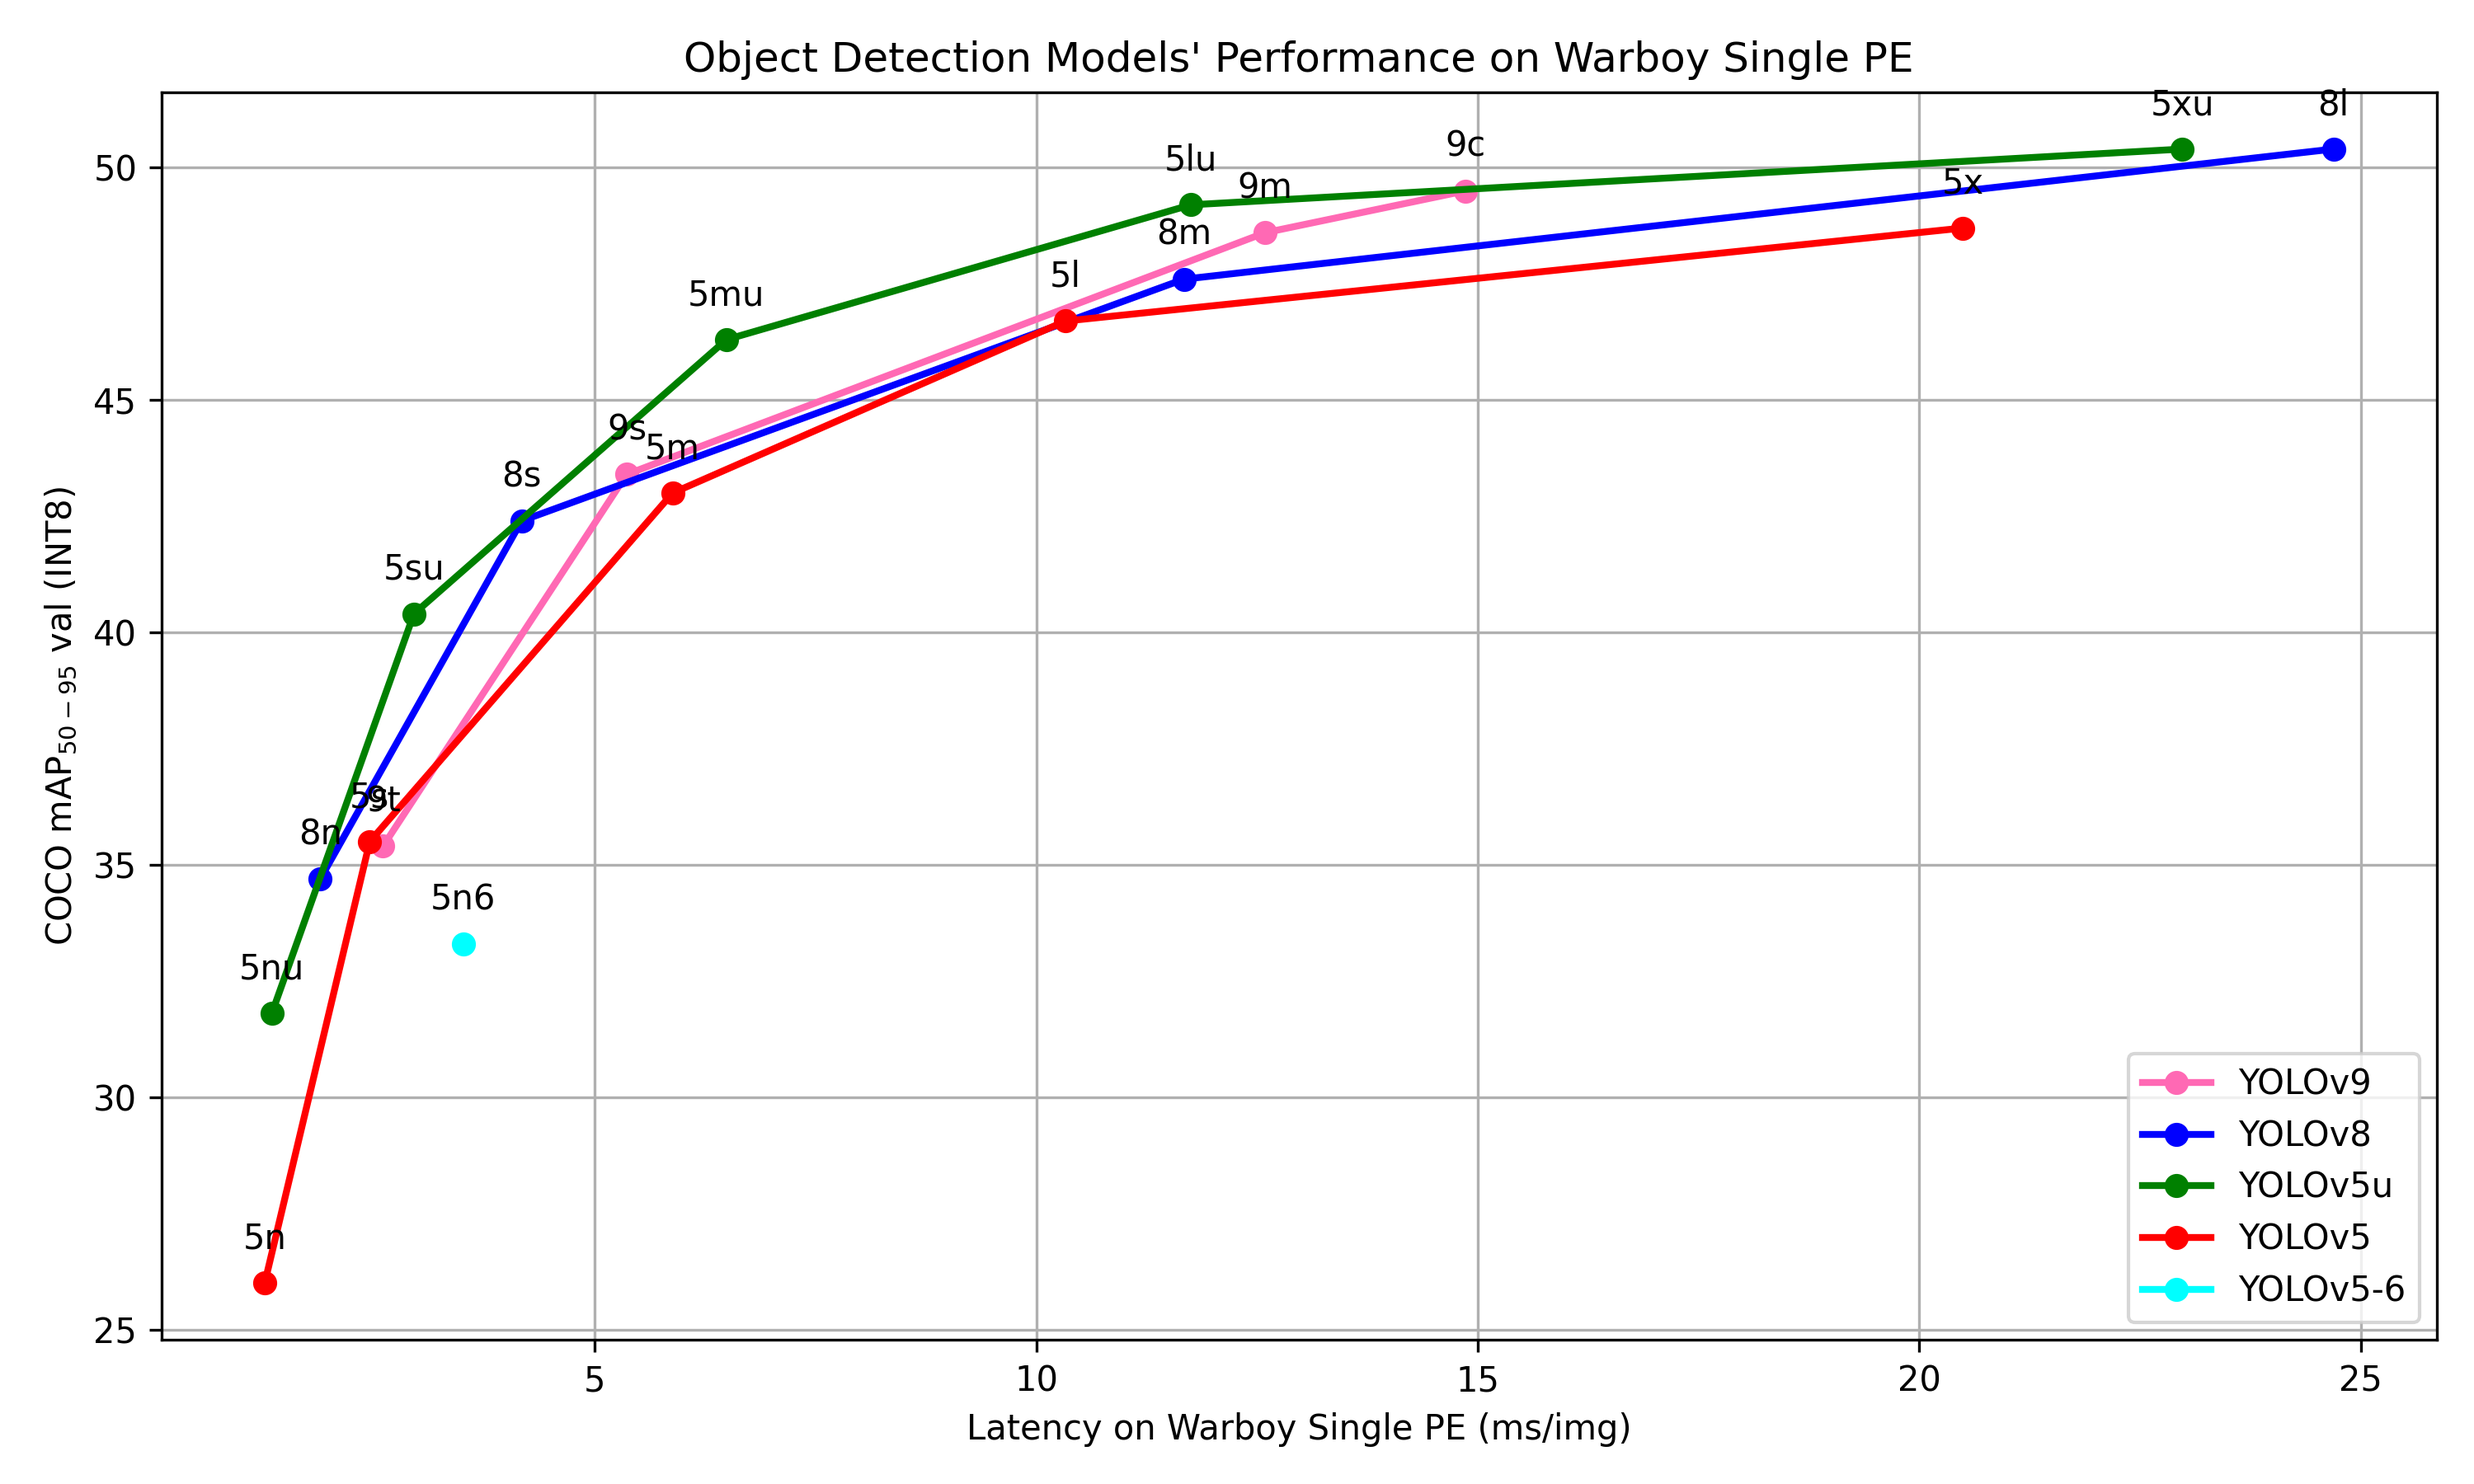
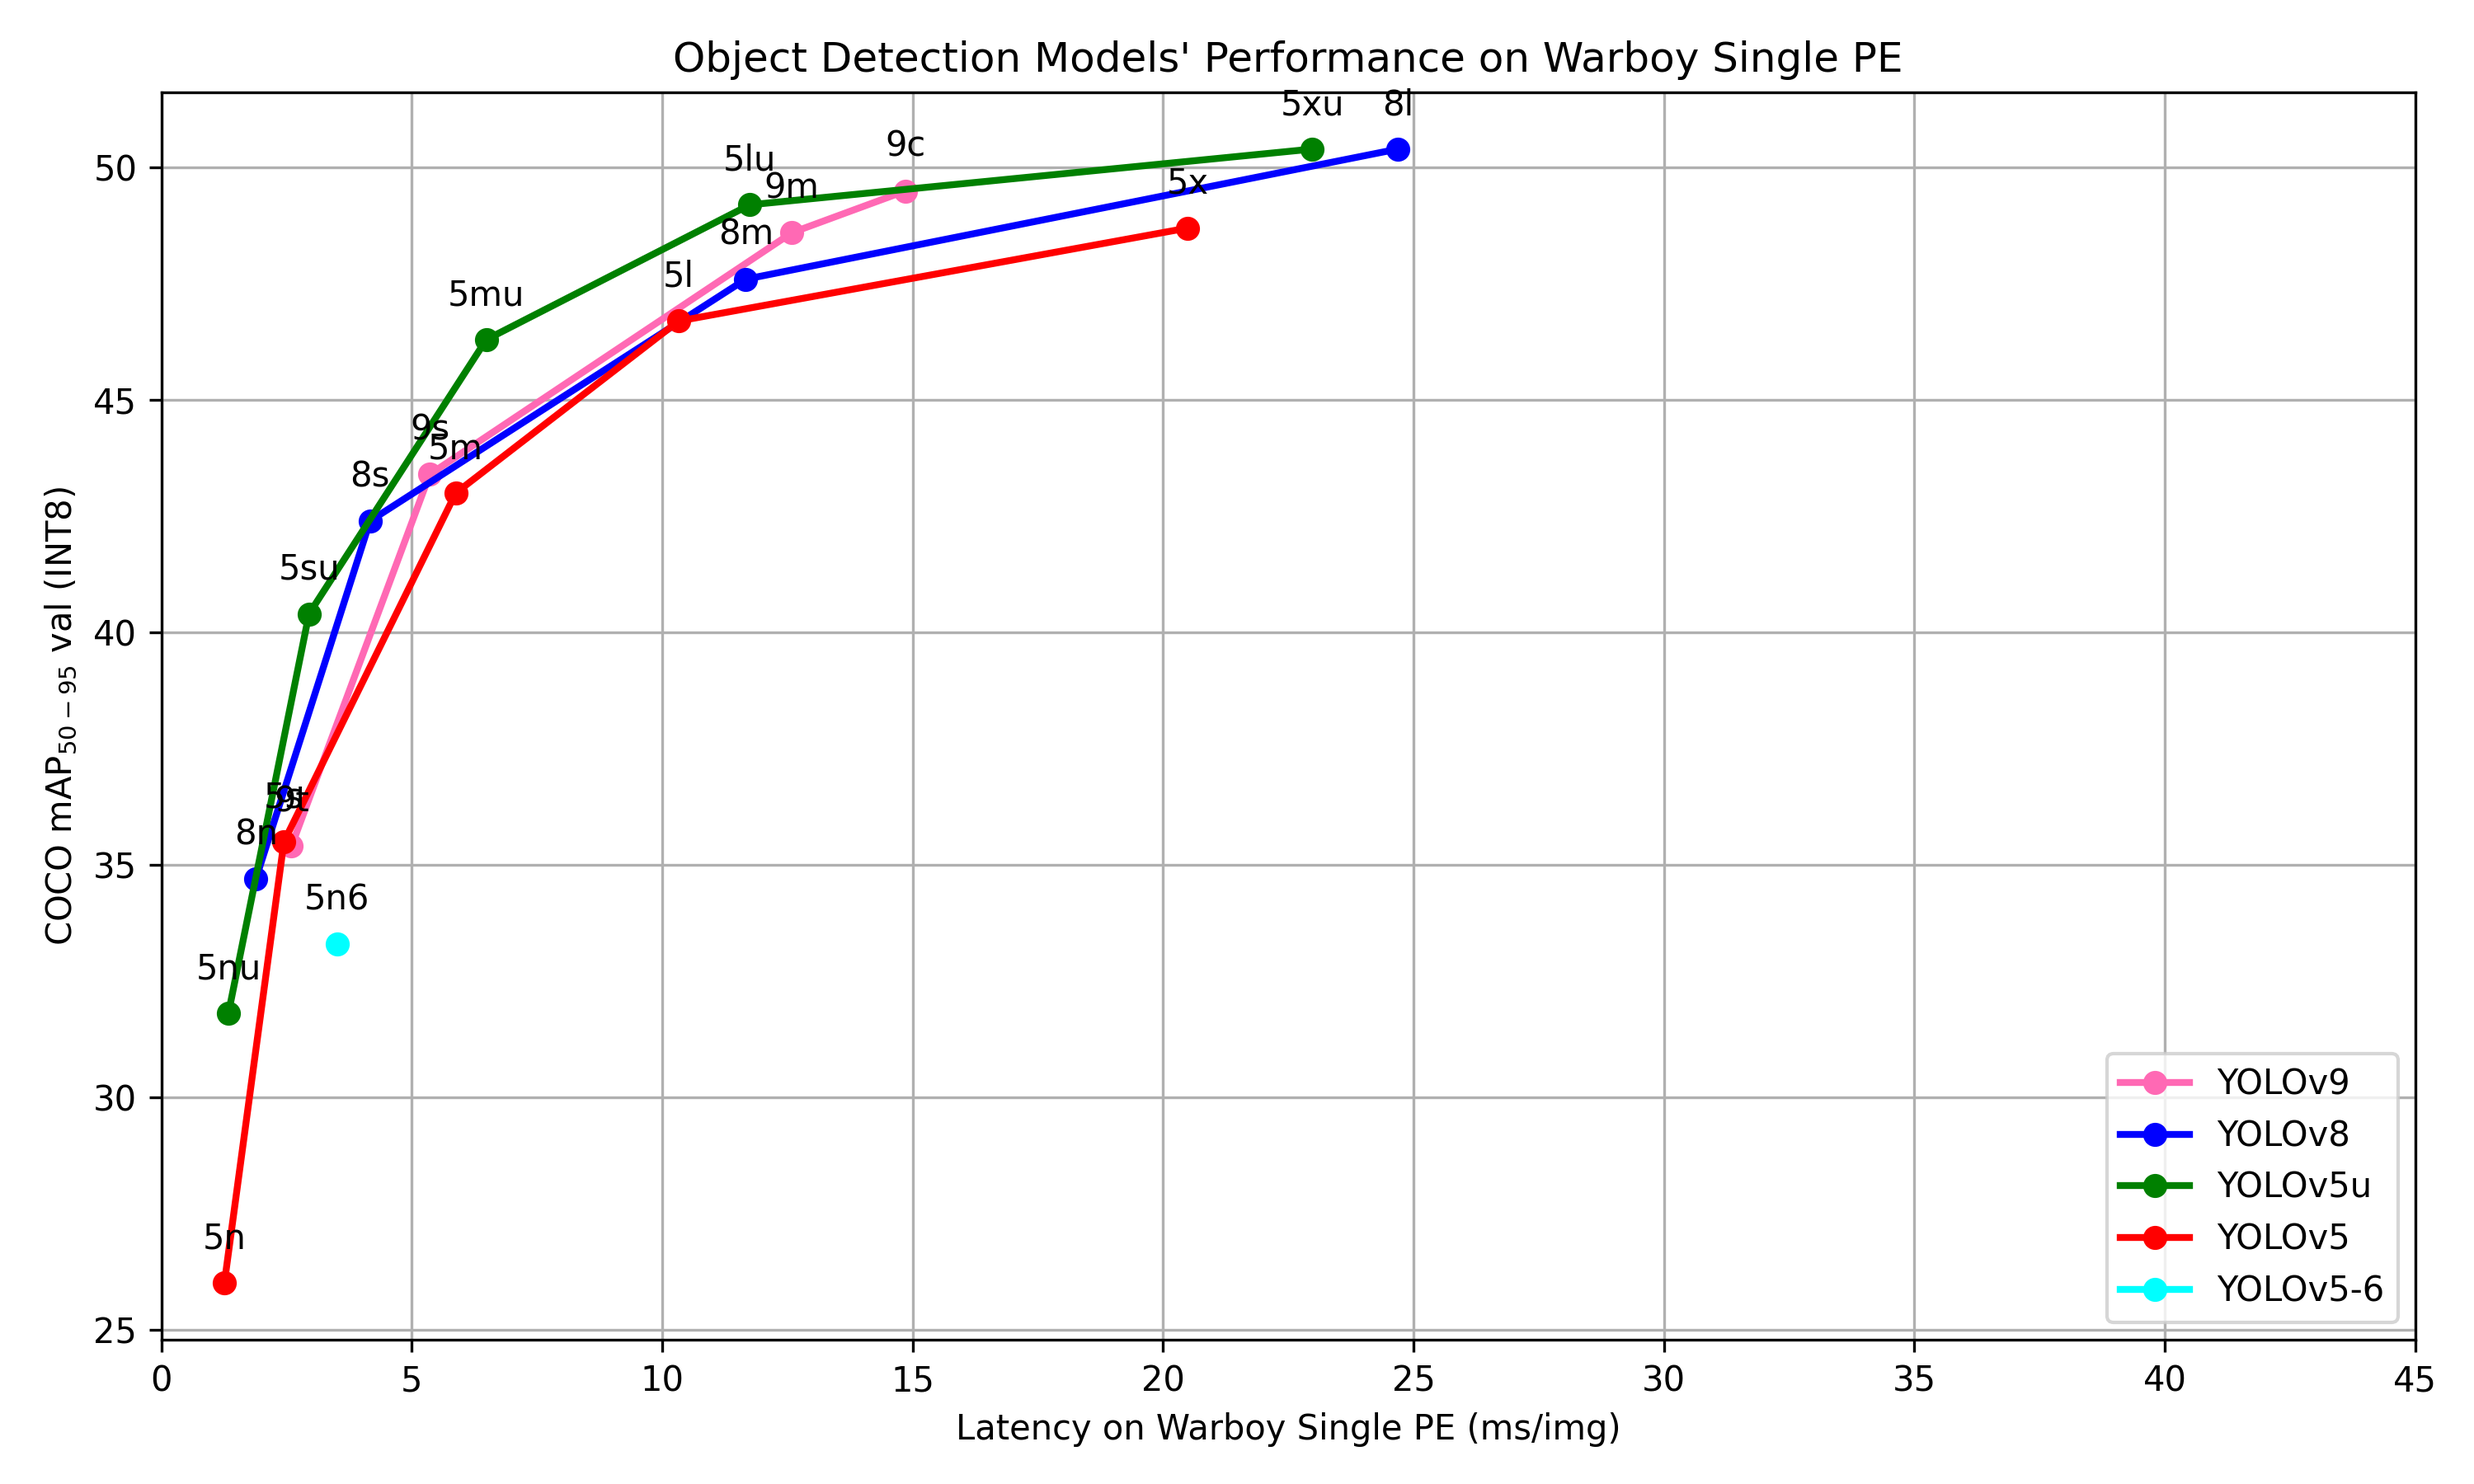
update graph limits

Changed region(s): [[0.062, 0.0311, 0.992, 0.9333], [0.403, 0.9333, 0.651, 0.9956], [0.651, 0.9022, 0.682, 0.9333]]

diff --git a/data/graph_fusion_pose.py b/data/graph_fusion_pose.py
@@ -1,4 +1,5 @@
 import matplotlib.pyplot as plt
+import numpy as np
 
 # yolo 모델 버전별 데이터
 yolov8_pose = ["8n-pose", "8s-pose", "8m-pose", "8l-pose", "8x-pose"]
@@ -29,6 +30,9 @@ for i, label in enumerate(yolov8_pose):
 plt.xlabel("Latency on Warboy Fusion (ms/img)")
 plt.ylabel("COCO mAP$_{50-95}$ val (INT8)")
 plt.title("Pose Estimation Performance on Warboy Fusion")
+
+plt.xticks(np.arange(0, 31, 5))
+plt.yticks(np.arange(45, 68, 2.5))
 
 plt.grid(True)
 plt.legend(loc="lower right")

diff --git a/data/graph_single_seg.py b/data/graph_single_seg.py
@@ -52,6 +52,9 @@ plt.xlabel("Latency on Warboy Single PE (ms/img)")
 plt.ylabel("COCO mAP$_{50-95}$ val (INT8)")
 plt.title("Instance Segmentation Models' Performance on Warboy Single PE")
 
+plt.xticks(np.arange(0, 17, 2))
+plt.yticks(np.arange(30, 51, 2))
+
 plt.grid(True)
 plt.legend(loc="lower right")
 plt.tight_layout()

diff --git a/data/graph_single_det.py b/data/graph_single_det.py
@@ -100,6 +100,9 @@ plt.xlabel("Latency on Warboy Single PE (ms/img)")
 plt.ylabel("COCO mAP$_{50-95}$ val (INT8)")
 plt.title("Object Detection Models' Performance on Warboy Single PE")
 
+plt.xticks(np.arange(0, 46, 5))
+plt.yticks(np.arange(25, 55, 5))
+
 plt.grid(True)
 plt.legend(loc="lower right")
 plt.tight_layout()

diff --git a/data/graph_fusion_seg.py b/data/graph_fusion_seg.py
@@ -52,6 +52,9 @@ plt.xlabel("Latency on Warboy Fusion (ms/img)")
 plt.ylabel("COCO mAP$_{50-95}$ val (INT8)")
 plt.title("Instance Segmentation Models' Performance on Warboy Fusion")
 
+plt.xticks(np.arange(0, 17, 2))
+plt.yticks(np.arange(30, 51, 2))
+
 plt.grid(True)
 plt.legend(loc="lower right")
 plt.tight_layout()

diff --git a/data/graph_fusion_det.py b/data/graph_fusion_det.py
@@ -137,6 +137,9 @@ plt.xlabel("Latency on Warboy Fusion (ms/img)")
 plt.ylabel("COCO mAP$_{50-95}$ val (INT8)")
 plt.title("Object Detection Models' Performance on Warboy Fusion")
 
+plt.xticks(np.arange(0, 46, 5))
+plt.yticks(np.arange(25, 55, 5))
+
 plt.grid(True)
 plt.legend(loc="lower right")
 plt.tight_layout()

diff --git a/data/graph_single_pose.py b/data/graph_single_pose.py
@@ -31,6 +31,9 @@ plt.xlabel("Latency on Warboy Single PE (ms/img)")
 plt.ylabel("COCO mAP$_{50-95}$ val (INT8)")
 plt.title("Pose Estimation Performance on Warboy Single PE")
 
+plt.xticks(np.arange(0, 31, 5))
+plt.yticks(np.arange(45, 68, 2.5))
+
 plt.grid(True)
 plt.legend(loc="lower right")
 plt.tight_layout()
